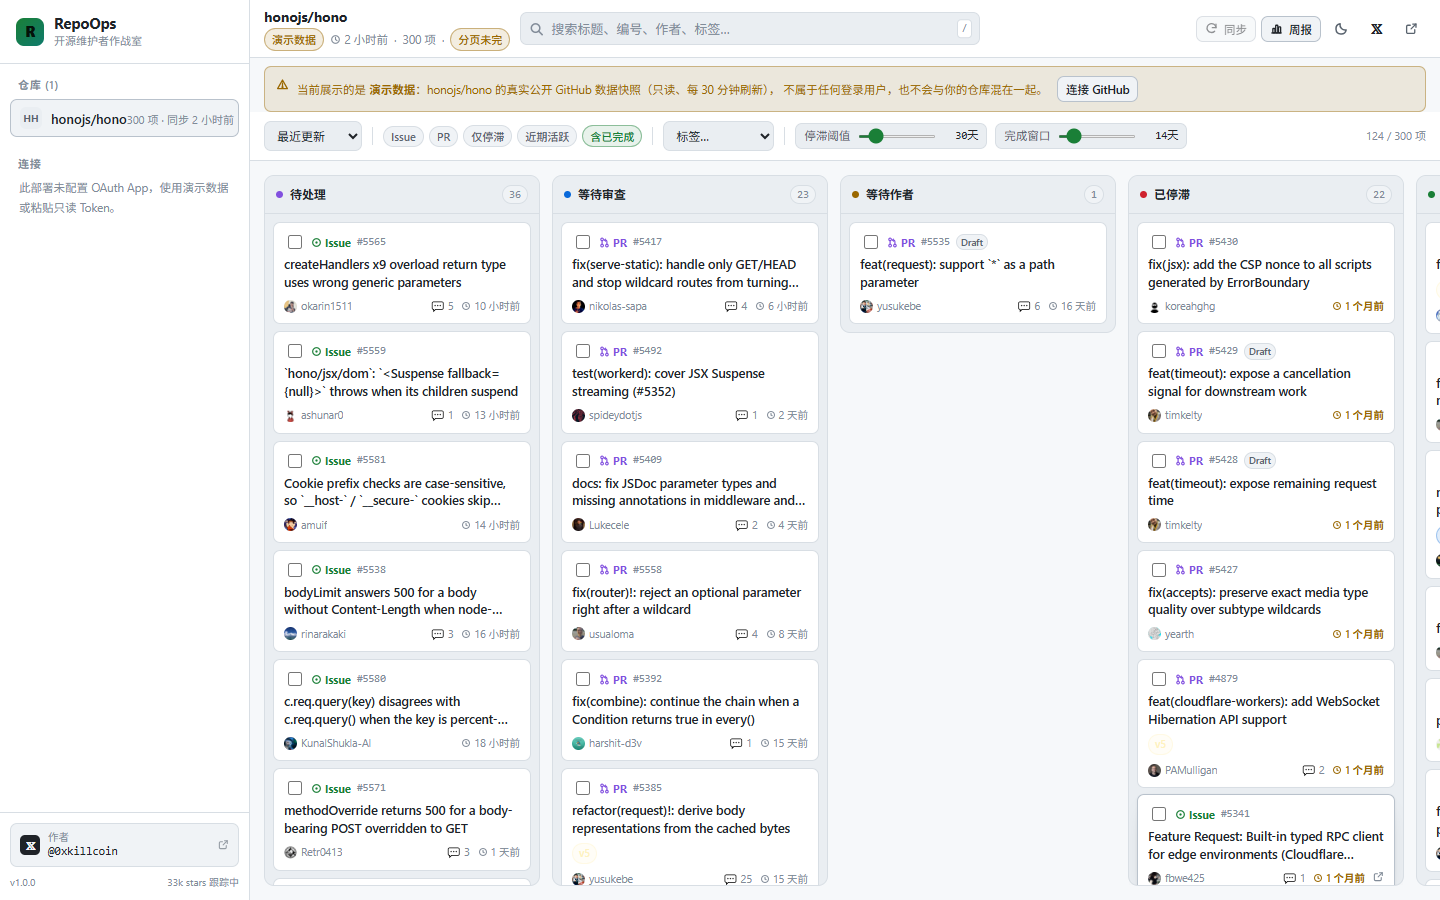
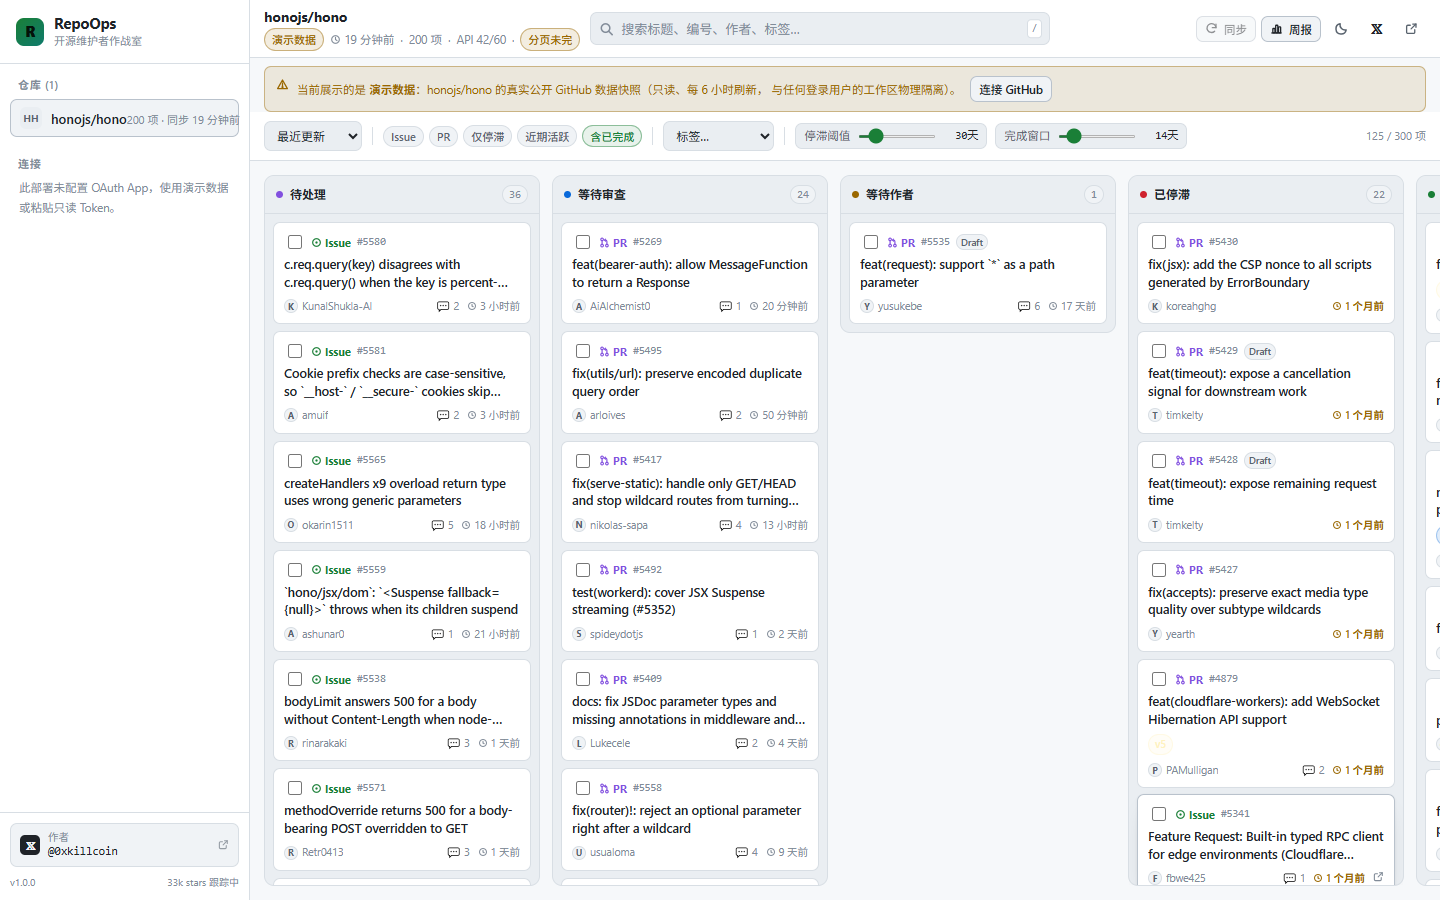
fix(demo): never drop the last good demo snapshot on a failed refresh
- refreshDemoSnapshot() writes in place instead of deleting demo_meta first,
  so an exhausted GitHub quota degrades to 'stale but working' instead of 429
- add a 15 minute backoff after a failed refresh
- cron uses refreshDemoSnapshot() rather than delete-then-load
- cards render a local initial instead of one remote avatar request each
  (120+ third-party image requests per page load before)
- e2e: wait for real data, drop networkidle waits

diff --git a/worker/sync.ts b/worker/sync.ts
@@ -409,11 +409,78 @@ export async function listTrackedRepos(env: Env, login: string): Promise<Tracker
  */
 const DEMO_TTL_MS = 1000 * 60 * 60 * 6;
 
+/**
+ * After a failed refresh we keep serving the last good snapshot and postpone
+ * the next attempt, so a GitHub quota outage cannot turn every page load into
+ * another doomed request against an already exhausted limit.
+ */
+const DEMO_RETRY_BACKOFF_MS = 1000 * 60 * 15;
+
 export interface DemoSnapshot {
   repo: TrackerRepo;
   items: NormalizedItem[];
   fetchedAt: string;
   stale: boolean;
+}
+
+/**
+ * Fetch a demo snapshot and persist it.
+ *
+ * Deliberately **never deletes the existing rows first**: a failed refresh must
+ * leave the previous good snapshot intact so the public demo degrades to
+ * "stale but working" instead of a 429 error page.
+ *
+ * Returns true when the cache was updated.
+ */
+export async function refreshDemoSnapshot(env: Env, repoFullName: string): Promise<boolean> {
+  const snapshot = await fetchRepoSnapshot(env, repoFullName, env.GITHUB_TOKEN ?? null, { maxPages: 2 });
+  const nowIso = new Date().toISOString();
+  const repo: TrackerRepo = {
+    ...snapshot.repo,
+    addedAt: nowIso,
+    sync: {
+      repo: repoFullName,
+      lastSyncAt: nowIso,
+      itemCount: snapshot.items.length,
+      pagesFetched: snapshot.pages,
+      complete: snapshot.complete,
+      cursor: snapshot.cursor,
+      errors: snapshot.errors,
+      rateLimit: snapshot.rateLimit,
+      lastRunDurationMs: null,
+      mode: 'demo',
+    },
+  };
+
+  await env.DB.prepare(
+    `INSERT INTO demo_meta (repo_full_name, payload, fetched_at, expires_at) VALUES (?, ?, ?, ?)
+     ON CONFLICT(repo_full_name) DO UPDATE SET payload = excluded.payload, fetched_at = excluded.fetched_at, expires_at = excluded.expires_at`,
+  )
+    .bind(repoFullName, JSON.stringify(repo), nowIso, new Date(Date.now() + DEMO_TTL_MS).toISOString())
+    .run();
+
+  // One row per item keeps every statement far below D1's size ceiling.
+  const statements = snapshot.items.map((item) =>
+    env.DB.prepare(
+      `INSERT INTO demo_items (repo_full_name, item_id, updated_at, payload) VALUES (?, ?, ?, ?)
+       ON CONFLICT(repo_full_name, item_id) DO UPDATE SET payload = excluded.payload, updated_at = excluded.updated_at`,
+    ).bind(repoFullName, item.id, item.updatedAt, JSON.stringify(item)),
+  );
+  for (let i = 0; i < statements.length; i += 40) {
+    await env.DB.batch(statements.slice(i, i + 40));
+  }
+  return true;
+}
+
+/** Push the next refresh attempt out without touching the cached payload. */
+async function postponeDemoRefresh(env: Env, repoFullName: string): Promise<void> {
+  try {
+    await env.DB.prepare('UPDATE demo_meta SET expires_at = ? WHERE repo_full_name = ?')
+      .bind(new Date(Date.now() + DEMO_RETRY_BACKOFF_MS).toISOString(), repoFullName)
+      .run();
+  } catch {
+    // Non-fatal: the read path already falls back to the stale snapshot.
+  }
 }
 
 /**
@@ -434,54 +501,31 @@ export async function loadDemoSnapshot(env: Env, repoFullName: string): Promise<
   }
 
   try {
-    const snapshot = await fetchRepoSnapshot(env, repoFullName, env.GITHUB_TOKEN ?? null, { maxPages: 2 });
-    const nowIso = new Date().toISOString();
-    const repo: TrackerRepo = {
-      ...snapshot.repo,
-      addedAt: nowIso,
-      sync: {
-        repo: repoFullName,
-        lastSyncAt: nowIso,
-        itemCount: snapshot.items.length,
-        pagesFetched: snapshot.pages,
-        complete: snapshot.complete,
-        cursor: snapshot.cursor,
-        errors: snapshot.errors,
-        rateLimit: snapshot.rateLimit,
-        lastRunDurationMs: null,
-        mode: 'demo',
-      },
-    };
-    await env.DB.prepare(
-      `INSERT INTO demo_meta (repo_full_name, payload, fetched_at, expires_at) VALUES (?, ?, ?, ?)
-       ON CONFLICT(repo_full_name) DO UPDATE SET payload = excluded.payload, fetched_at = excluded.fetched_at, expires_at = excluded.expires_at`,
-    )
-      .bind(repoFullName, JSON.stringify(repo), nowIso, new Date(Date.now() + DEMO_TTL_MS).toISOString())
-      .run();
-
-    // One row per item keeps every statement far below D1's size ceiling.
-    const statements = snapshot.items.map((item) =>
-      env.DB.prepare(
-        `INSERT INTO demo_items (repo_full_name, item_id, updated_at, payload) VALUES (?, ?, ?, ?)
-         ON CONFLICT(repo_full_name, item_id) DO UPDATE SET payload = excluded.payload, updated_at = excluded.updated_at`,
-      ).bind(repoFullName, item.id, item.updatedAt, JSON.stringify(item)),
-    );
-    for (let i = 0; i < statements.length; i += 40) {
-      await env.DB.batch(statements.slice(i, i + 40));
-    }
-    return { repo, items: snapshot.items, fetchedAt: nowIso, stale: false };
+    await refreshDemoSnapshot(env, repoFullName);
+    const updated = await env.DB.prepare('SELECT payload, fetched_at FROM demo_meta WHERE repo_full_name = ?')
+      .bind(repoFullName)
+      .first<{ payload: string; fetched_at: string }>();
+    const repo = JSON.parse(updated?.payload ?? meta?.payload ?? 'null') as TrackerRepo;
+    const items = await readDemoItems(env, repoFullName);
+    return { repo, items, fetchedAt: updated?.fetched_at ?? meta?.fetched_at ?? new Date().toISOString(), stale: false };
   } catch (err) {
     if (meta) {
-      // Serve the last good snapshot rather than an error screen.
+      // Serve the last good snapshot rather than an error screen, and back off
+      // so we stop hammering an exhausted quota.
       const repo = JSON.parse(meta.payload) as TrackerRepo;
       const items = await readDemoItems(env, repoFullName);
-      if (items.length > 0) return { repo, items, fetchedAt: meta.fetched_at, stale: true };
+      if (items.length > 0) {
+        await postponeDemoRefresh(env, repoFullName);
+        console.warn('[repoops] demo refresh failed, serving stale snapshot:', (err as Error).message);
+        return { repo, items, fetchedAt: meta.fetched_at, stale: true };
+      }
     }
     throw err;
   }
 }
 
-async function readDemoItems(env: Env, repoFullName: string): Promise<NormalizedItem[]> {  const { results } = await env.DB.prepare(
+async function readDemoItems(env: Env, repoFullName: string): Promise<NormalizedItem[]> {
+  const { results } = await env.DB.prepare(
     'SELECT payload FROM demo_items WHERE repo_full_name = ? ORDER BY updated_at DESC LIMIT 600',
   )
     .bind(repoFullName)

diff --git a/worker/index.ts b/worker/index.ts
@@ -11,6 +11,7 @@ import { loadSession, requireSession } from './session';
 import {
   listTrackedRepos,
   loadDemoSnapshot,
+  refreshDemoSnapshot,
   parseRepoFullName,
   readCachedItems,
   readSyncState,
@@ -102,8 +103,9 @@ export default {
       (async () => {
         try {
           const { owner, name } = parseRepoFullName(env.DEMO_REPO);
-          await env.DB.prepare('DELETE FROM demo_meta WHERE repo_full_name = ?').bind(`${owner}/${name}`).run();
-          await loadDemoSnapshot(env, `${owner}/${name}`);
+          // Refresh in place: a failure here must not destroy the previous good
+          // snapshot that the public demo falls back to.
+          await refreshDemoSnapshot(env, `${owner}/${name}`);
           console.log('[repoops] cron: demo cache refreshed for', `${owner}/${name}`);
         } catch (err) {
           console.error('[repoops] cron: demo refresh failed', err instanceof Error ? err.message : err);

diff --git a/src/components/Board.tsx b/src/components/Board.tsx
@@ -76,7 +76,16 @@ function ItemCard({ item, selected, checked, onOpen, onToggle, staleDays }: Card
 
       <div className="card__foot">
         <span className="card__author">
-          {item.authorAvatar && <img src={item.authorAvatar} alt="" loading="lazy" width={13} height={13} />}
+          {/*
+            Cards use a local initial instead of the GitHub avatar: a board with
+            120+ cards would otherwise fire 120+ third-party image requests to
+            avatars.githubusercontent.com on every page load (slow first paint,
+            and it leaks every reader's IP to GitHub). The real avatar is shown
+            once, in the detail panel.
+          */}
+          <span className="card__avatar" aria-hidden>
+            {item.author.slice(0, 1).toUpperCase()}
+          </span>
           {item.author}
         </span>
         <span className="card__spacer" />

diff --git a/src/App.tsx b/src/App.tsx
@@ -418,8 +418,9 @@ export default function App() {
             <div className="notice notice--warn">
               <IconWarn size={13} style={{ flex: 'none', marginTop: 2 }} />
               <span>
-                当前展示的是 <strong>演示数据</strong>：{activeRepoName} 的真实公开 GitHub 数据快照（只读、每 30 分钟刷新），
-                不属于任何登录用户，也不会与你的仓库混在一起。
+                当前展示的是 <strong>演示数据</strong>：{activeRepoName} 的真实公开 GitHub 数据快照（只读、每 6 小时刷新，
+                与任何登录用户的工作区物理隔离）
+                {staleNotice ? '，当前为缓存快照（GitHub 暂时不可达）' : ''}。
                 {!session?.authenticated && (
                   <>
                     {' '}

diff --git a/src/components/TopBar.tsx b/src/components/TopBar.tsx
@@ -127,7 +127,7 @@ export function TopBar({
           className="btn btn--sm"
           onClick={onSync}
           disabled={syncing || mode === 'demo' || !session?.authenticated}
-          title={mode === 'demo' ? '演示数据每 30 分钟自动刷新' : '重新同步该仓库'}
+          title={mode === 'demo' ? '演示快照每 6 小时由定时任务刷新；GitHub 不可达时回退到上一份可用快照' : '重新同步该仓库'}
         >
           <IconRefresh size={13} style={syncing ? { animation: 'spin 0.9s linear infinite' } : undefined} />
           <span className="hide-xs">{syncing ? '同步中' : '同步'}</span>

diff --git a/src/styles.css b/src/styles.css
@@ -805,6 +805,21 @@ button {
   border-radius: 50%;
   flex: none;
 }
+/* Local initial chip: avoids one third-party avatar request per card. */
+.card__avatar {
+  display: inline-grid;
+  place-items: center;
+  width: 14px;
+  height: 14px;
+  flex: none;
+  border-radius: 50%;
+  background: var(--bg-elev-2);
+  border: 1px solid var(--border);
+  color: var(--text-dim);
+  font-size: 9px;
+  font-weight: 700;
+  line-height: 1;
+}
 .card__spacer {
   flex: 1;
 }

diff --git a/README.md b/README.md
@@ -71,7 +71,7 @@ RepoOps 把仓库里的事项压成五个队列：
 - GitHub OAuth（最小权限：`read:user public_repo`，私有仓库需显式升级）
 - 只读 Token 登录作为 fallback
 - 多仓库跟踪（上限 12 个）
-- 增量同步：`since` 游标 + 30 分钟缓存
+- 增量同步：`since` 游标 + 本地 D1 缓存（打开看板 0 次 GitHub 调用）
 - 分页进度、API 配额、同步错误全部可见
 
 </td><td valign="top">
